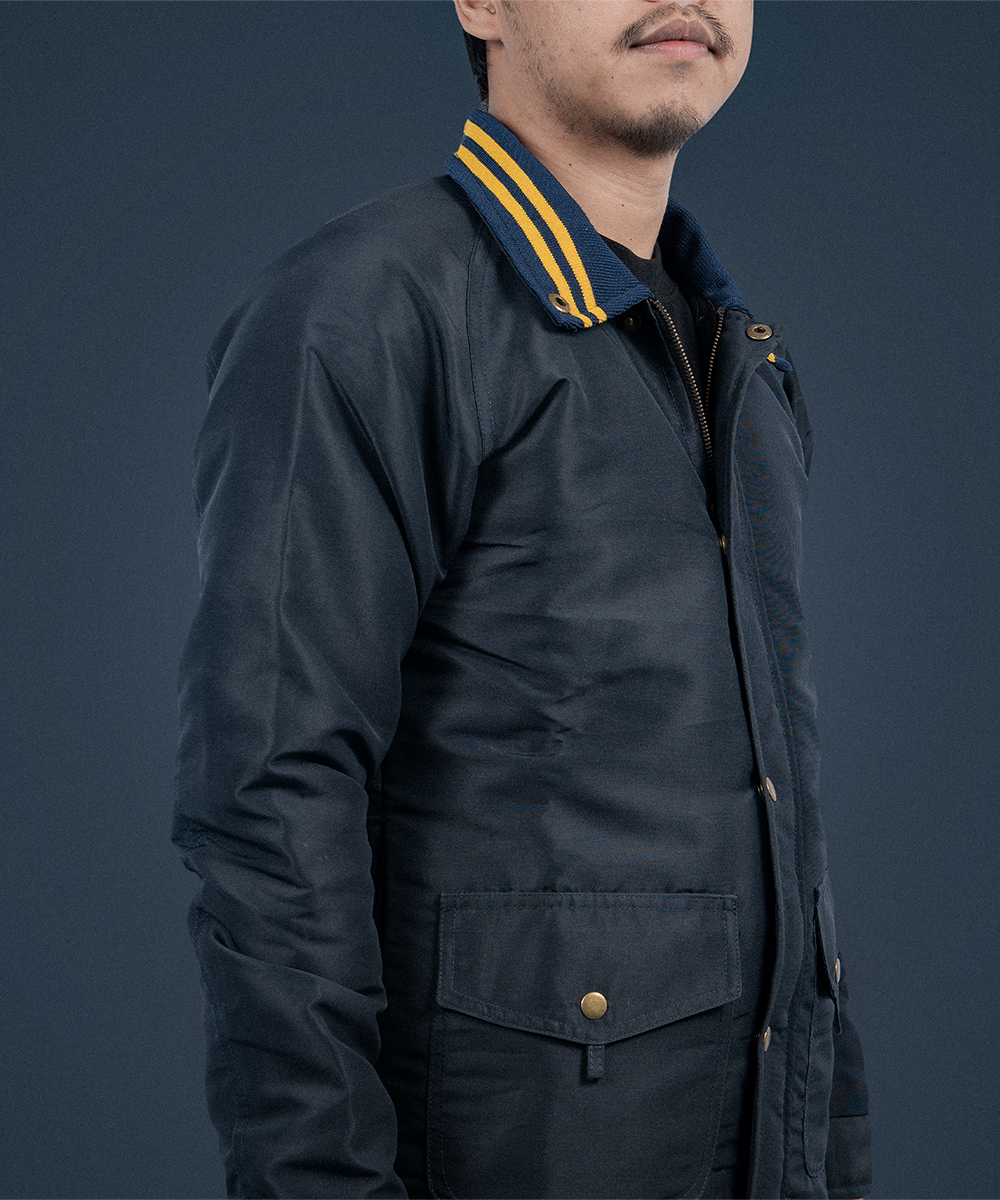
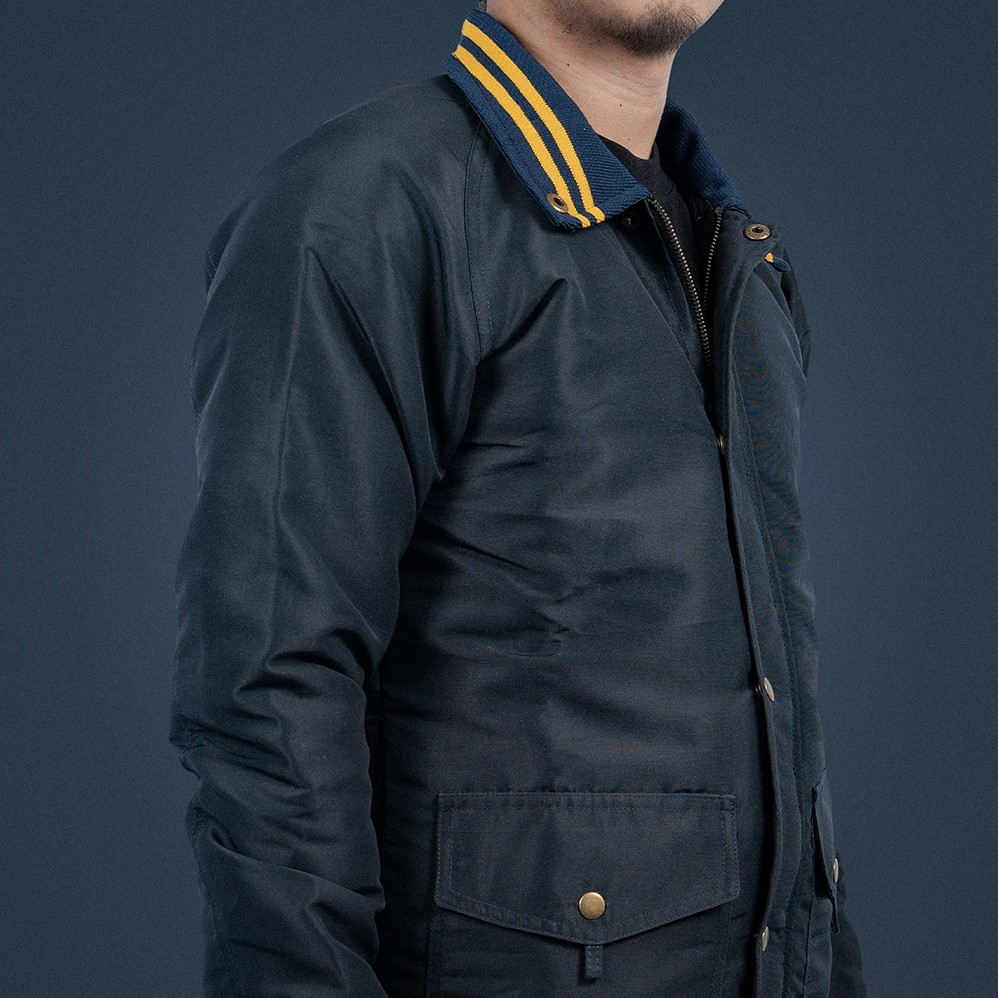
update photos produc

diff --git a/index.html b/index.html
@@ -115,11 +115,9 @@
         <div class="row">
           <div class="col-6 col-md-3">
             <figure class="figure product-card">
-              <!-- <a href="#" class="product-hover"></a> -->
-              <div class="imgoverflow">
-                <img src="./images/product/thumbnails/thumb-yurtgc-1.jpg" class="figure-img img-fluid m-0"
-                  alt="The Yurt's GC">
-              </div>
+              <a href="#" class="product-hover"></a>
+              <img src="./images/product/thumbnails/thumb-yurtgc-1.jpg" class="figure-img img-fluid m-0"
+                alt="The Yurt's GC">
               <figcaption class="figure-caption m-0 p-2">
                 <h6>The Yurt's - GC Jacket</h6>
                 <div class="row">
@@ -136,10 +134,8 @@
           <div class="col-6 col-md-3">
             <figure class="figure product-card">
               <a href="#" class="product-hover"></a>
-              <div class="imgoverflow">
-                <img src="./images/product/thumbnails/thumb-yurtgg-1.jpg" class="figure-img img-fluid m-0"
-                  alt="The Yurt's GG">
-              </div>
+              <img src="./images/product/thumbnails/thumb-yurtgg-1.jpg" class="figure-img img-fluid m-0"
+                alt="The Yurt's GG">
               <figcaption class="figure-caption m-0 p-2">
                 <h6>The Yurt's - GG Jacket</h6>
                 <div class="row">
@@ -157,10 +153,8 @@
           <div class="col-6 col-md-3 col-lg-3">
             <figure class="figure product-card">
               <a href="#" class="product-hover"></a>
-              <div class="imgoverflow">
-                <img src="./images/product/thumbnails/thumb-yurtnn-1.jpg" class="figure-img img-fluid m-0"
-                  alt="The Yurt's NN">
-              </div>
+              <img src="./images/product/thumbnails/thumb-yurtnn-1.jpg" class="figure-img img-fluid m-0"
+                alt="The Yurt's NN">
               <figcaption class="figure-caption m-0 p-2">
                 <h6>The Yurt's - NN Jacket</h6>
                 <div class="row">
@@ -177,9 +171,7 @@
           <div class="col-6 col-md-3">
             <figure class="figure product-card">
               <a href="#" class="product-hover"></a>
-              <div class="imgoverflow">
-                <img src="./images/product/thumbnails/spectre-1.jpg" class="figure-img img-fluid m-0" alt="The Spectre">
-              </div>
+              <img src="./images/product/thumbnails/spectre-1.jpg" class="figure-img img-fluid m-0" alt="The Spectre">
               <figcaption class="figure-caption m-0 p-2">
                 <h6>The Yurt's - GC Jacket</h6>
                 <div class="row">

diff --git a/css/style.css b/css/style.css
@@ -19,6 +19,10 @@ body {
   
 }
 
+.navbar-dark .navbar-nav .nav-link {
+  color: rgba(255, 255, 255, 0.7);
+}
+
 .navbar-brand {
   width: 5rem;
 }
@@ -160,13 +164,6 @@ body {
   color: #b19600;
 }
 
-.product-item .imgoverflow{
-  width: 150px;
-  height: 150px;
-  overflow: hidden;
-}
-
-
 .product-item .product-card {
   position: relative;
 }
@@ -186,7 +183,6 @@ body {
   opacity: 100;
 }
 
-/* desktop */
 @media (min-width: 768px) { 
   .navbar {
     background-color:  transparent;
@@ -250,11 +246,4 @@ body {
     font-size: 0.6rem;
   } 
 
-}
-
-@media (min-width: 992px) { 
-  .product-item .imgoverflow{
-    width: 210px;
-    height: 210px;
-  }
 }
